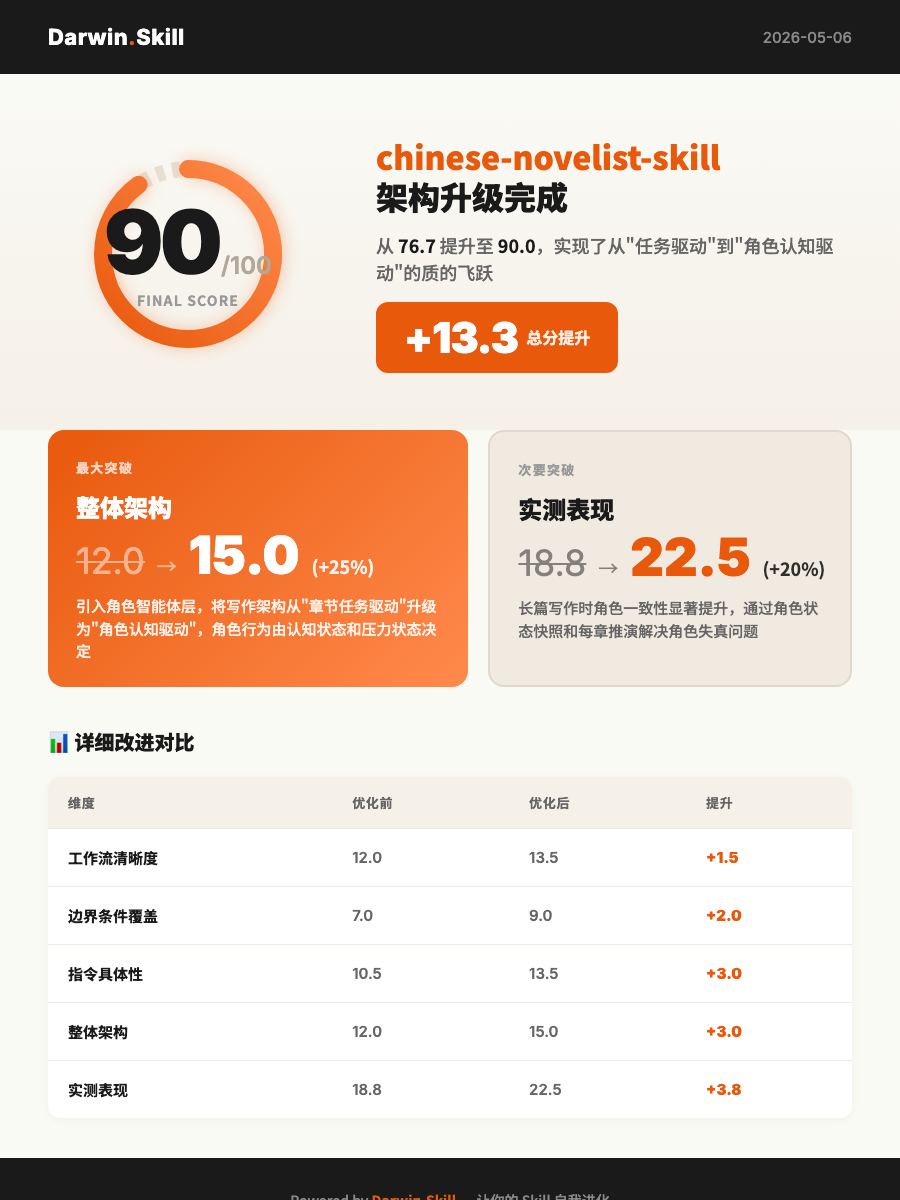
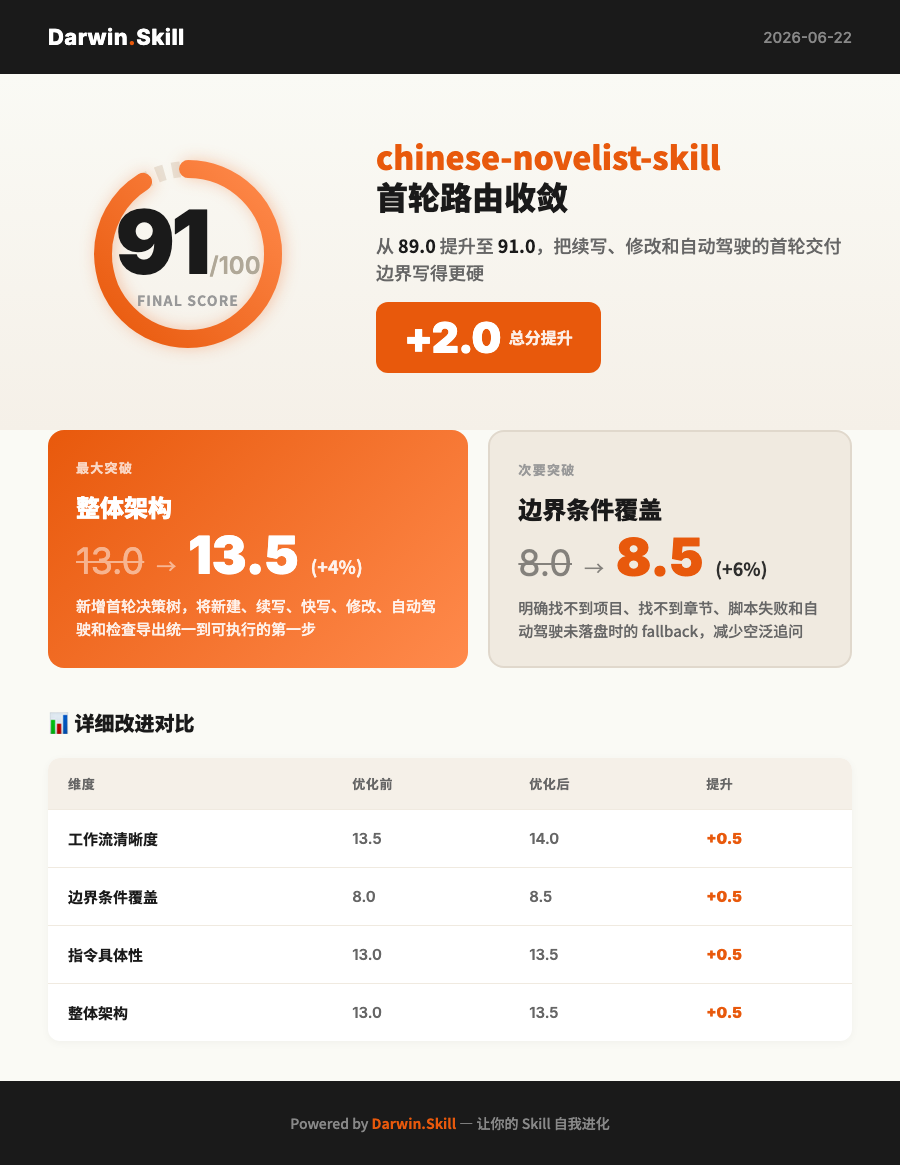
docs: refresh Darwin optimization result card

diff --git a/optimization-result.html b/optimization-result.html
@@ -82,7 +82,7 @@
     stroke-width: 18;
     stroke-linecap: round;
     stroke-dasharray: 534;
-    stroke-dashoffset: 53.4;
+    stroke-dashoffset: 48.1;
     transform: rotate(-90deg);
     transform-origin: center;
     filter: drop-shadow(0 2px 8px rgba(232,89,12,0.3));
@@ -327,7 +327,7 @@
   <!-- 1. 顶部品牌条 -->
   <div class="brand-bar">
     <div class="brand-name">Darwin<span class="dot">.</span>Skill</div>
-    <div class="brand-date">2026-05-06</div>
+    <div class="brand-date">2026-06-22</div>
   </div>
 
   <!-- 2. 核心成就区 -->
@@ -345,7 +345,7 @@
       </svg>
       <div class="ring-center">
         <div>
-          <span class="ring-score">90</span><span class="ring-max">/100</span>
+          <span class="ring-score">91</span><span class="ring-max">/100</span>
         </div>
         <div class="ring-label">FINAL SCORE</div>
       </div>
@@ -354,13 +354,13 @@
     <div class="hero-text">
       <div class="hero-title">
         <span class="hero-skill-name">chinese-novelist-skill</span><br>
-        架构升级完成
+        首轮路由收敛
       </div>
       <div class="hero-journey">
-        从 <strong>76.7</strong> 提升至 <strong>90.0</strong>，实现了从"任务驱动"到"角色认知驱动"的质的飞跃
+        从 <strong>89.0</strong> 提升至 <strong>91.0</strong>，把续写、修改和自动驾驶的首轮交付边界写得更硬
       </div>
       <div class="delta-badge">
-        <span>+13.3</span>
+        <span>+2.0</span>
         <span class="delta-badge-label">总分提升</span>
       </div>
     </div>
@@ -372,27 +372,27 @@
       <div class="breakthrough-label">最大突破</div>
       <div class="breakthrough-dim">整体架构</div>
       <div class="breakthrough-score-row">
-        <span class="breakthrough-from">12.0</span>
+        <span class="breakthrough-from">13.0</span>
         <span class="breakthrough-arrow">→</span>
-        <span class="breakthrough-to">15.0</span>
-        <span class="breakthrough-pct">(+25%)</span>
+        <span class="breakthrough-to">13.5</span>
+        <span class="breakthrough-pct">(+4%)</span>
       </div>
       <div class="breakthrough-desc">
-        引入角色智能体层，将写作架构从"章节任务驱动"升级为"角色认知驱动"，角色行为由认知状态和压力状态决定
+        新增首轮决策树，将新建、续写、快写、修改、自动驾驶和检查导出统一到可执行的第一步
       </div>
     </div>
 
     <div class="breakthrough-card secondary">
       <div class="breakthrough-label">次要突破</div>
-      <div class="breakthrough-dim">实测表现</div>
+      <div class="breakthrough-dim">边界条件覆盖</div>
       <div class="breakthrough-score-row">
-        <span class="breakthrough-from">18.8</span>
+        <span class="breakthrough-from">8.0</span>
         <span class="breakthrough-arrow">→</span>
-        <span class="breakthrough-to">22.5</span>
-        <span class="breakthrough-pct">(+20%)</span>
+        <span class="breakthrough-to">8.5</span>
+        <span class="breakthrough-pct">(+6%)</span>
       </div>
       <div class="breakthrough-desc">
-        长篇写作时角色一致性显著提升，通过角色状态快照和每章推演解决角色失真问题
+        明确找不到项目、找不到章节、脚本失败和自动驾驶未落盘时的 fallback，减少空泛追问
       </div>
     </div>
   </div>
@@ -412,33 +412,27 @@
       <tbody>
         <tr>
           <td class="dim-name">工作流清晰度</td>
-          <td class="score-cell">12.0</td>
           <td class="score-cell">13.5</td>
-          <td class="delta-cell">+1.5</td>
+          <td class="score-cell">14.0</td>
+          <td class="delta-cell">+0.5</td>
         </tr>
         <tr>
           <td class="dim-name">边界条件覆盖</td>
-          <td class="score-cell">7.0</td>
-          <td class="score-cell">9.0</td>
-          <td class="delta-cell">+2.0</td>
+          <td class="score-cell">8.0</td>
+          <td class="score-cell">8.5</td>
+          <td class="delta-cell">+0.5</td>
         </tr>
         <tr>
           <td class="dim-name">指令具体性</td>
-          <td class="score-cell">10.5</td>
+          <td class="score-cell">13.0</td>
           <td class="score-cell">13.5</td>
-          <td class="delta-cell">+3.0</td>
+          <td class="delta-cell">+0.5</td>
         </tr>
         <tr>
           <td class="dim-name">整体架构</td>
-          <td class="score-cell">12.0</td>
-          <td class="score-cell">15.0</td>
-          <td class="delta-cell">+3.0</td>
-        </tr>
-        <tr>
-          <td class="dim-name">实测表现</td>
-          <td class="score-cell">18.8</td>
-          <td class="score-cell">22.5</td>
-          <td class="delta-cell">+3.8</td>
+          <td class="score-cell">13.0</td>
+          <td class="score-cell">13.5</td>
+          <td class="delta-cell">+0.5</td>
         </tr>
       </tbody>
     </table>
